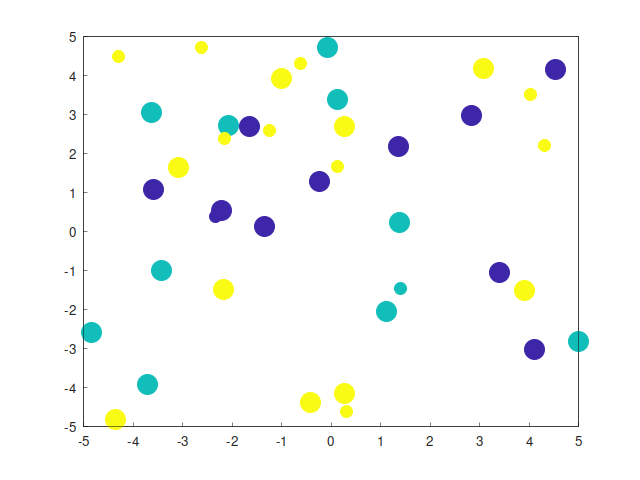
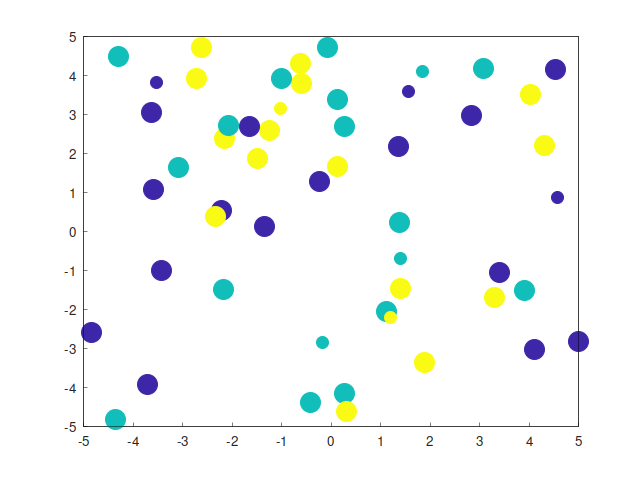
visualizing bug fix

diff --git a/src/KNN.cpp b/src/KNN.cpp
@@ -18,18 +18,16 @@ KNN::KNN(int const K, Dataset const &dataset) : K(K), dataset(dataset) {
 
 KNN::~KNN() {}
 
-std::vector<Point> KNN::getTrainData() const {return trainData;}
-std::vector<Point> KNN::getTestData() const {return testData;}
+std::vector<Point> KNN::getTrainData() const { return trainData; }
+std::vector<Point> KNN::getTestData() const { return testData; }
 
 void KNN::run() {
 
   std::map<int, int>::iterator result;
   int classId;
-int i;
   for (std::vector<Point>::iterator testIt = testData.begin();
        testIt != testData.end(); testIt++) {
     nearestNeighbors.clear();
-    i = 0;
 
     std::sort(trainData.begin(), trainData.end(),
               [testIt](const Point &pLeft, const Point &pRight) {
@@ -37,17 +35,22 @@ int i;
                        eucledianDistance(*testIt, pRight);
               });
     for (std::vector<Point>::iterator trainIt = trainData.begin();
-         trainIt != trainData.end() ; trainIt++, i++)
+         trainIt != trainData.begin() + K; trainIt++)
       nearestNeighbors[trainIt->getClassId()]++;
-    result = std::max_element(nearestNeighbors.begin(), nearestNeighbors.end());
-    
+    result = std::max_element(
+        nearestNeighbors.begin(), nearestNeighbors.end(),
+        [](const std::pair<int, int> &p1, const std::pair<int, int> &p2) {
+          return p1.second < p2.second;
+        }); 
+
     testIt->setClassId(result->first);
   }
   printResults();
 }
 
 void KNN::printResults() {
-  std::cout << "Inference Results:" << std::endl;
+  std::cout << "\t\t" << std::string(10, '*') << " Inference Results "
+            << std::string(10, '*') << std::endl;
   for (std::vector<Point>::iterator testIt = testData.begin();
        testIt != testData.end(); testIt++) {
     std::cout << *testIt << std::endl;

diff --git a/src/main.cpp b/src/main.cpp
@@ -11,7 +11,7 @@ int main(int argc, char **argv) {
 
 
   Dataset dataset;
-  dataset.initializeTrainData(-5.0, 5.0, 3, 10);
+  dataset.initializeTrainData(-5.0, 5.0, 3, 15);
   dataset.printTrainData();
 
   dataset.initializeTestData(-5.0, 5.0, 10);
@@ -23,7 +23,7 @@ int main(int argc, char **argv) {
 
   std::vector<Point> trainData = knn.getTrainData();
   std::vector<Point> testData = knn.getTestData();
-  Visualizer vis(trainData, testData);
+  Visualizer vis(trainData, testData); // small dots are test data.
 
   vis.plot(true, "../results/classification.png");
   return 0;

diff --git a/src/visualizer.cpp b/src/visualizer.cpp
@@ -31,7 +31,7 @@ void Visualizer::initialize(std::vector<Point> &trainData,
 
   sizes.resize(classes.size());
   std::fill(sizes.begin(), sizes.end(), 12);
-  std::fill(sizes.begin(), sizes.end() - testData.size() - 1, 20);
+  std::fill(sizes.begin(), sizes.end() - testData.size(), 20);
 }
 void Visualizer::plot(bool save, std::string filename) {
   auto l = matplot::scatter(feat1, feat2, sizes, classes);
